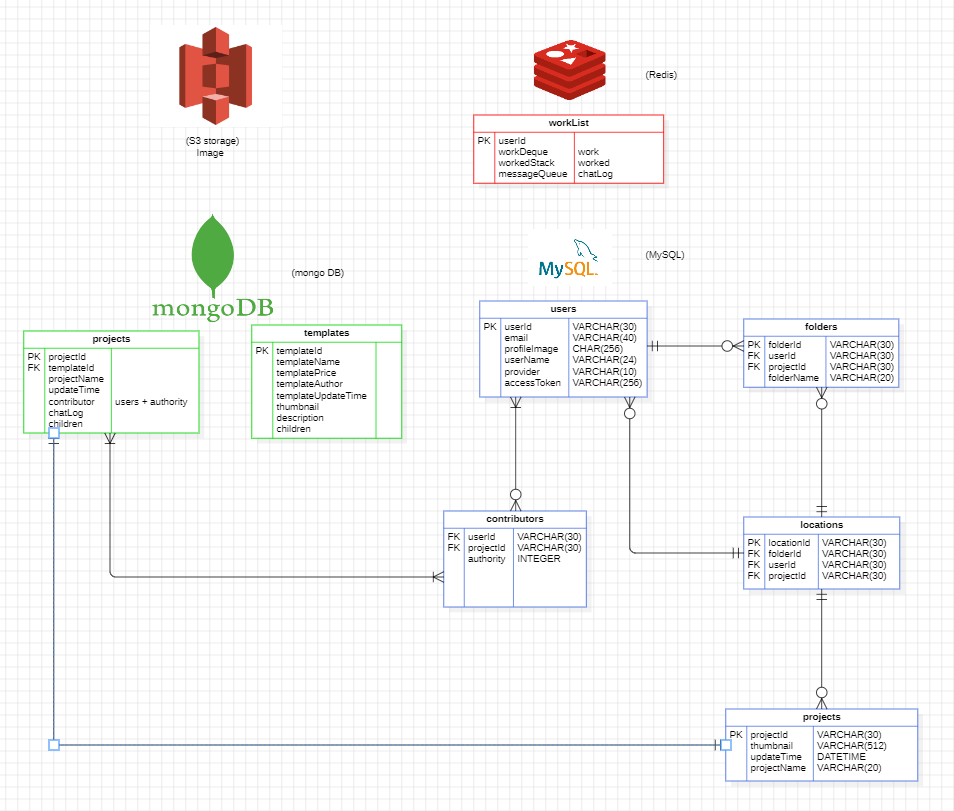
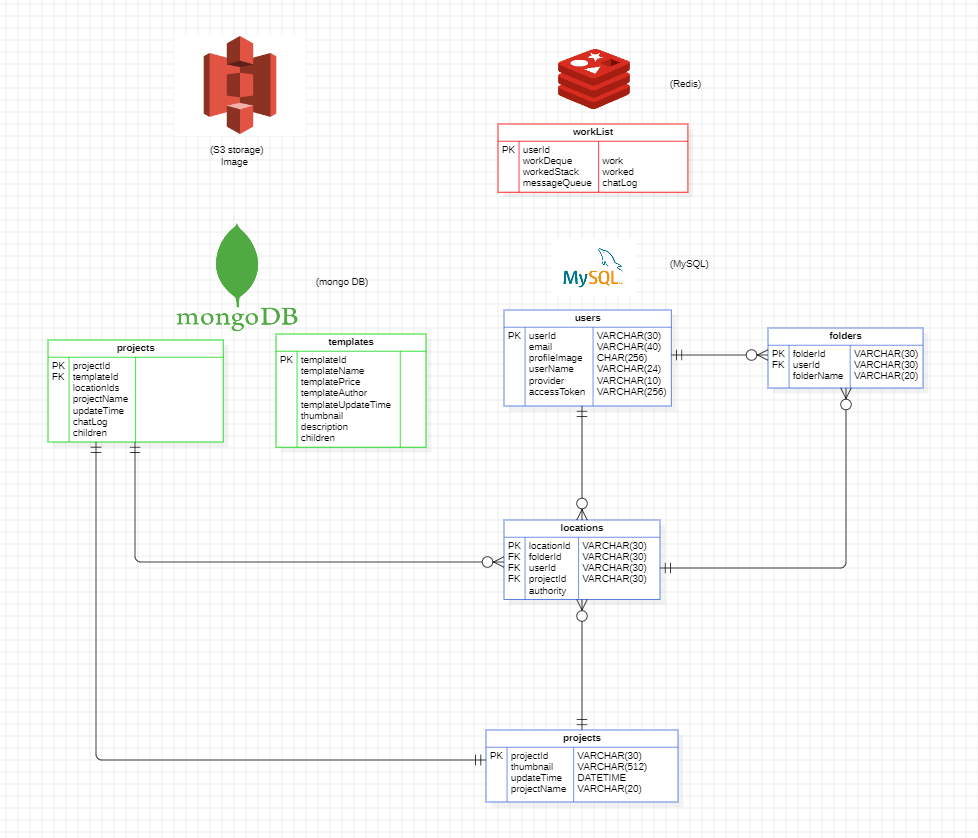
Docs: 수정 DB 시각화 자료, 추가 01.18_회의록

diff --git a/back/Document/01.18_회의록.md b/back/Document/01.18_회의록.md
@@ -1,0 +1,34 @@
+# 데이터베이스 구조 계획 수정
+
+## MySQL
+
+1. `folders`, `locations`, ~~projects~~ 테이블 추가 (오후 회의 이후 `projects` 삭제)
+
+- `folders`에 folderId와 폴더 이름, userId가 들어감
+- 메인화면 렌더링 효율을 위해 `projects` 테이블을 추가하려 했으나, `mongo DB`에 키를 추가하는 것이 메모리 효율에 좋다고 판단, 계획 삭제
+- `location` 테이블에는 `userId`, `folderId`, `projectId`를 받아 유저 간 다른 이름의 폴더에 같은 프로젝트가 들어갈 수 있도록 처리한다. 
+- PK인 `locationId`로 다른 참여자들을 구분하는 것으로 변경
+
+2. `contributors` 테이블 삭제
+
+- `contributors` 내의 속성들을 `locations`로 비정규화
+- `authority`(권한)도 `locations`로 이동
+
+## Mongo DB
+
+1. MySQL의 `contributors` 테이블이 삭제되면서 `projects` 컬렉션의 `contributor` 키가 필요 없게 되어 삭제
+
+2. `locationIds` 키를 받아 값으로 다른 유저들의 `locationId`를 저장
+
+3. MySQL의 `projects` 테이블 추가를 계획하면서 `thumbnail`을 컬렉션에서 제외했다가 다시 추가
+
+4. AWS S3 스토리지에는 Image만을 저장하고, 채팅 로그는 `project` 컬렉션에, 탬플릿은 프로젝트의 값 형태와 마찬가지로 `template` 컬렉션에 저장하기로 변경
+
+## redis
+
+1. redis 사전 학습 자료를 보며 이전 기획에 대한 회고
+https://velog.io/@bzeromo/DB-Redis
+
+2. redis는 Window os를 지원하지 않기 때문에 docker image를 이용하기로 결정
+
+3. docker에 대한 사전 학습을 추가 과제로 둠
